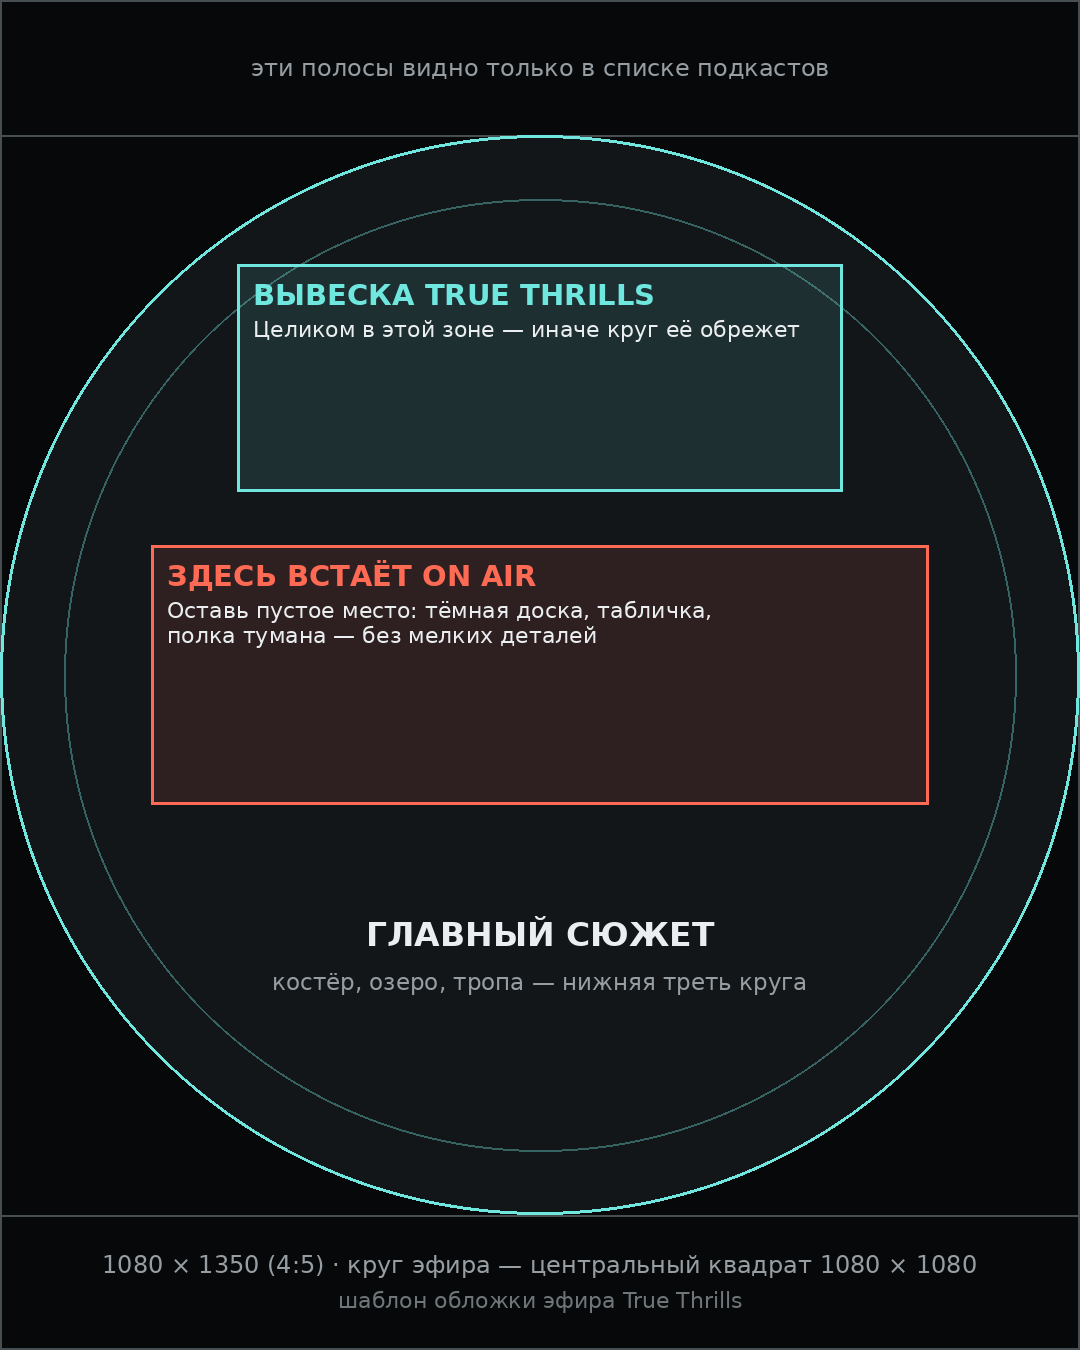
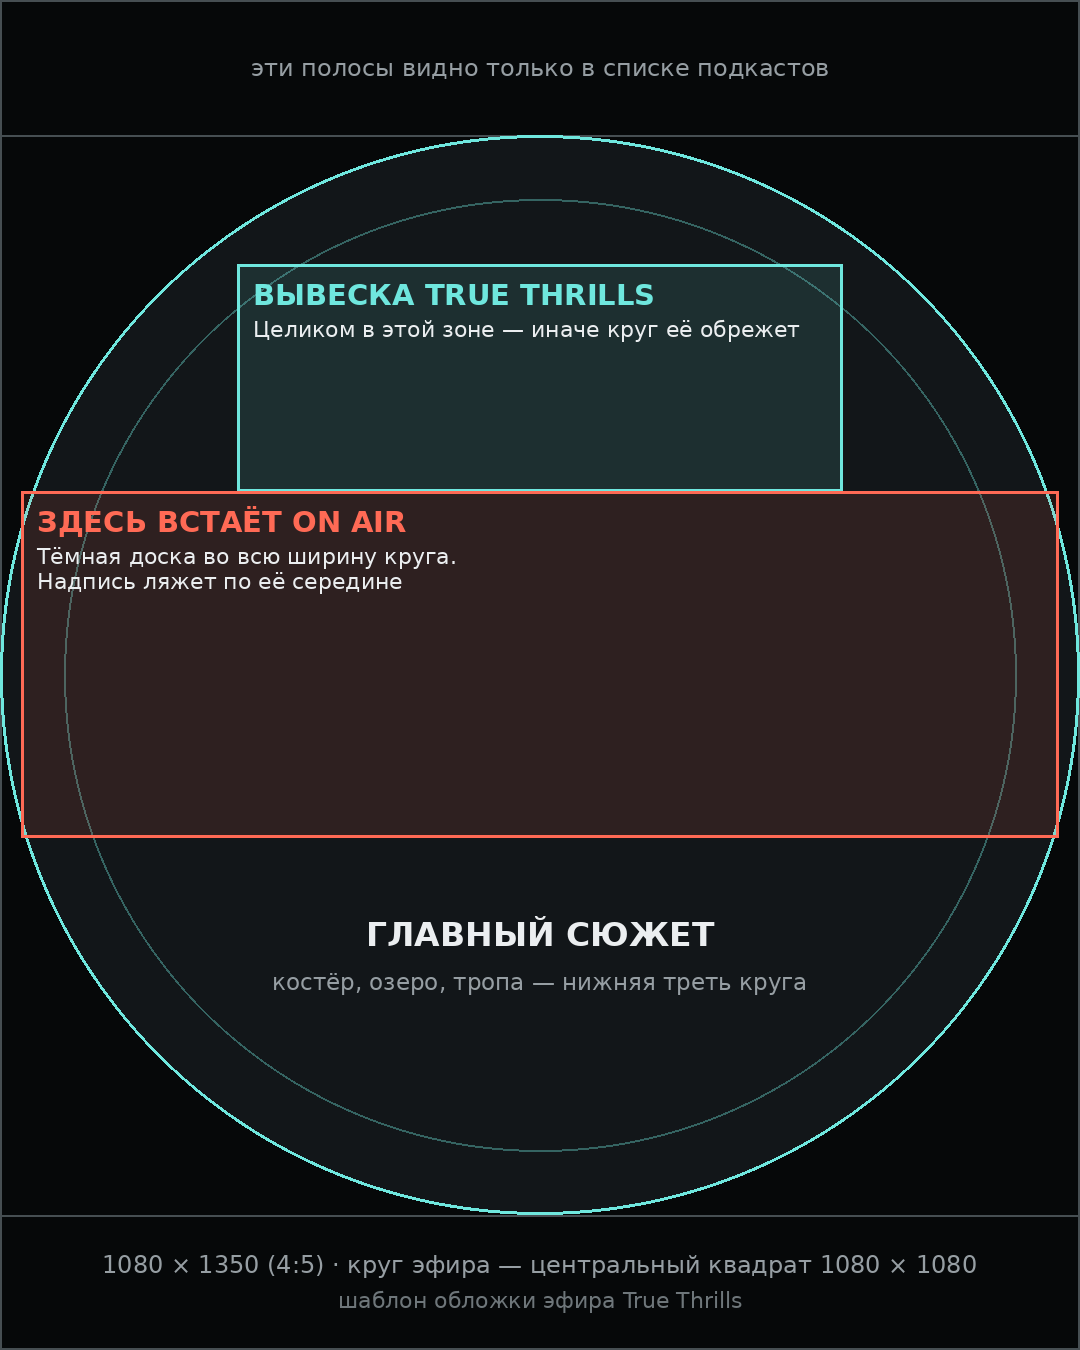
Лампа ложится на доску обложки, а не поверх неё
На обложке автора уже нарисована своя доска под надпись, и ровная плашка
с кромкой садилась на неё второй табличкой. Подложки у лампы больше нет:
размытие и затемнение растворяются к краям маской — под буквами глухо, по
краю прозрачно. На тёмной доске лампа читается частью кадра, на светлой
картинке контраст добирает тень у самих букв.

Проверено на двух крайних случаях: тёмная доска во всю ширину круга и
светлая пёстрая картинка без доски вовсе.

Памятка и шаблон поправлены под то, что вышло на практике: доску под лампу
делать во всю ширину круга и по высоте 33–65%, с запасом — надпись шире на
телефоне (16.6–83.4%), чем на мониторе (21.9–78.1%).

Тест ловит возврат плашки: фон лампы обязан быть прозрачным, кромка
нулевой, маска на месте. Проверено мутацией по каждому условию.

Claude-Session: https://claude.ai/code/session_01TG1p135avEJPonu5T1nwvj

Changed region(s): [[0.0, 0.3422, 1.0, 0.6222]]

diff --git a/app/globals.css b/app/globals.css
@@ -1657,18 +1657,27 @@ body:has(.tt-beams) .bottom-nav{z-index:30}
    -------------------------------------------------------------------------- */
 /* Лампа набрана тем же широким шрифтом, что и знак канала в шапке: на студии
    это табло, а не заголовок, и засечки здесь выглядят как чужая цитата.
-   Тонкая светлая кромка и тень делают из неё табличку, лежащую на картинке,
-   а не текст, висящий в воздухе. */
-.live-orb-copy{letter-spacing:.2em;border:1px solid rgba(255,255,255,.16);
- box-shadow:0 12px 30px -14px rgba(0,0,0,.85),inset 0 1px 0 rgba(255,255,255,.09)}
+
+   Подложки как таковой у неё нет. Обложку эфира автор рисует с собственной
+   доской под надпись, и плашка с кромкой ложилась на эту доску второй
+   табличкой. Поэтому размытие и затемнение растворяются к краям маской:
+   середина под буквами глухая, край — прозрачный, и на любой картинке лампа
+   выглядит частью кадра. */
+.live-orb-copy{letter-spacing:.2em;border:none;background:none;box-shadow:none;
+ padding:16px 34px;border-radius:0;
+ -webkit-backdrop-filter:blur(22px) brightness(.55) saturate(.9);backdrop-filter:blur(22px) brightness(.55) saturate(.9);
+ -webkit-mask-image:radial-gradient(ellipse 72% 58% at 50% 50%,#000 0 62%,transparent 100%);
+ mask-image:radial-gradient(ellipse 72% 58% at 50% 50%,#000 0 62%,transparent 100%)}
 .live-orb-copy strong{font-family:var(--font-ui);font-weight:700;
  font-size:clamp(19px,5.2vw,25px)}
 .live-orb-copy.is-live strong{color:#ffd9d1}
 .live-rings.is-calm .live-orb-shade{
  background:radial-gradient(circle at 50% 45%,rgba(18,22,25,0),rgba(18,22,25,.14) 62%,rgba(18,22,25,.6))}
-.live-rings.is-calm .live-orb-copy{background:rgba(10,14,16,.32);
- -webkit-backdrop-filter:blur(22px);backdrop-filter:blur(22px)}
-.live-rings.is-calm .live-orb-copy strong{color:#dfe4e7}
+.live-rings.is-calm .live-orb-copy strong{color:#eef1f3}
+/* Затемнение растворяется к краям, поэтому под буквами оно слабее, чем у
+   плашки с ровным фоном. Тень у самих букв добивает контраст на светлой
+   обложке — там маски одной мало. */
+.live-orb-copy strong{text-shadow:0 2px 10px rgba(0,0,0,.9),0 0 26px rgba(0,0,0,.65)}
 
 /* ----------------------------------------------------------------------------
    Эфир на большом экране.
